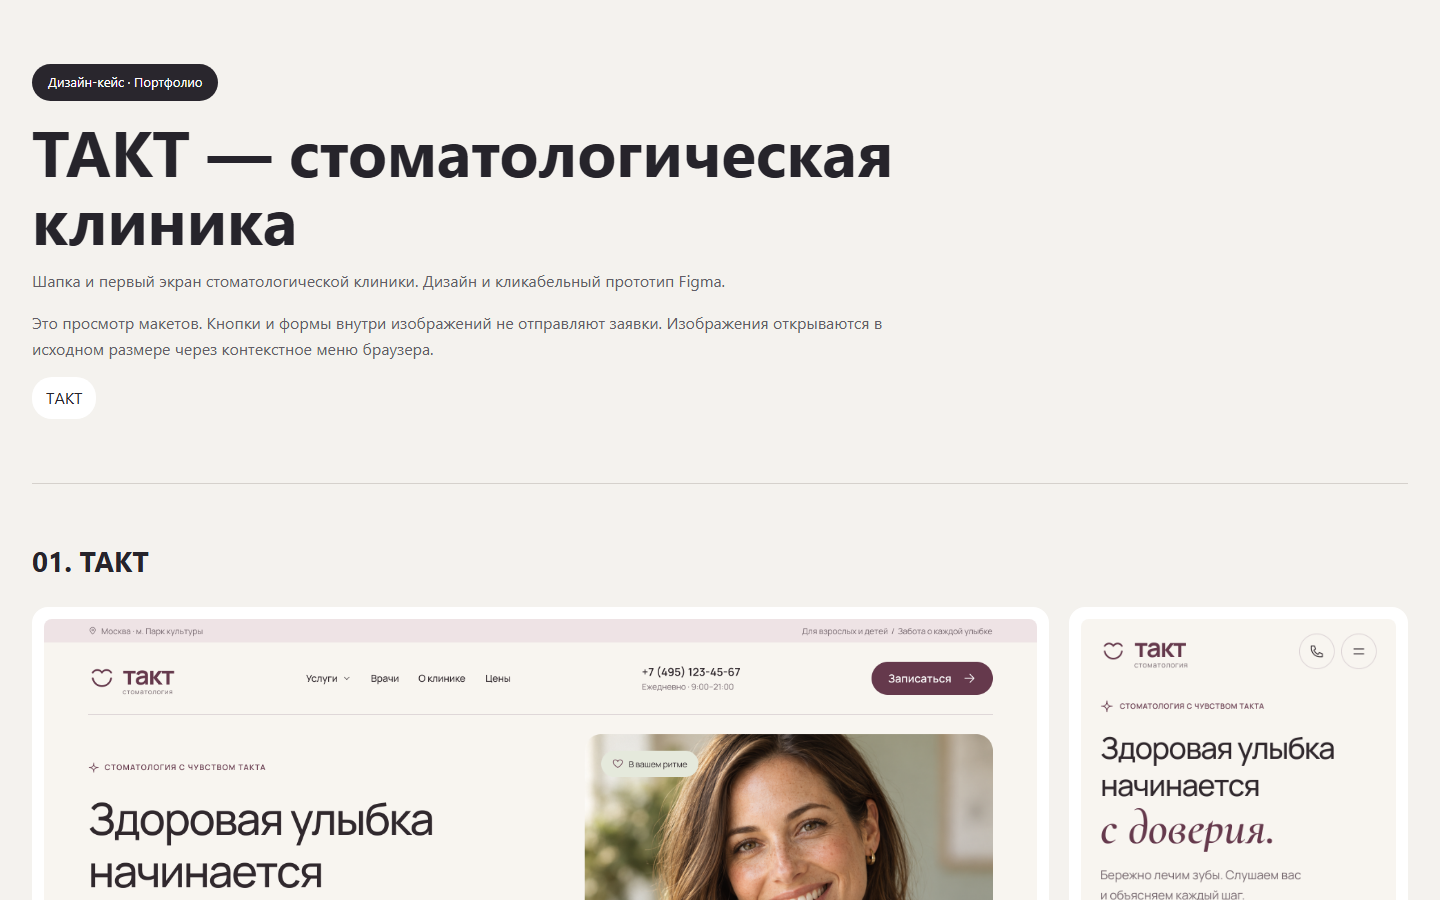
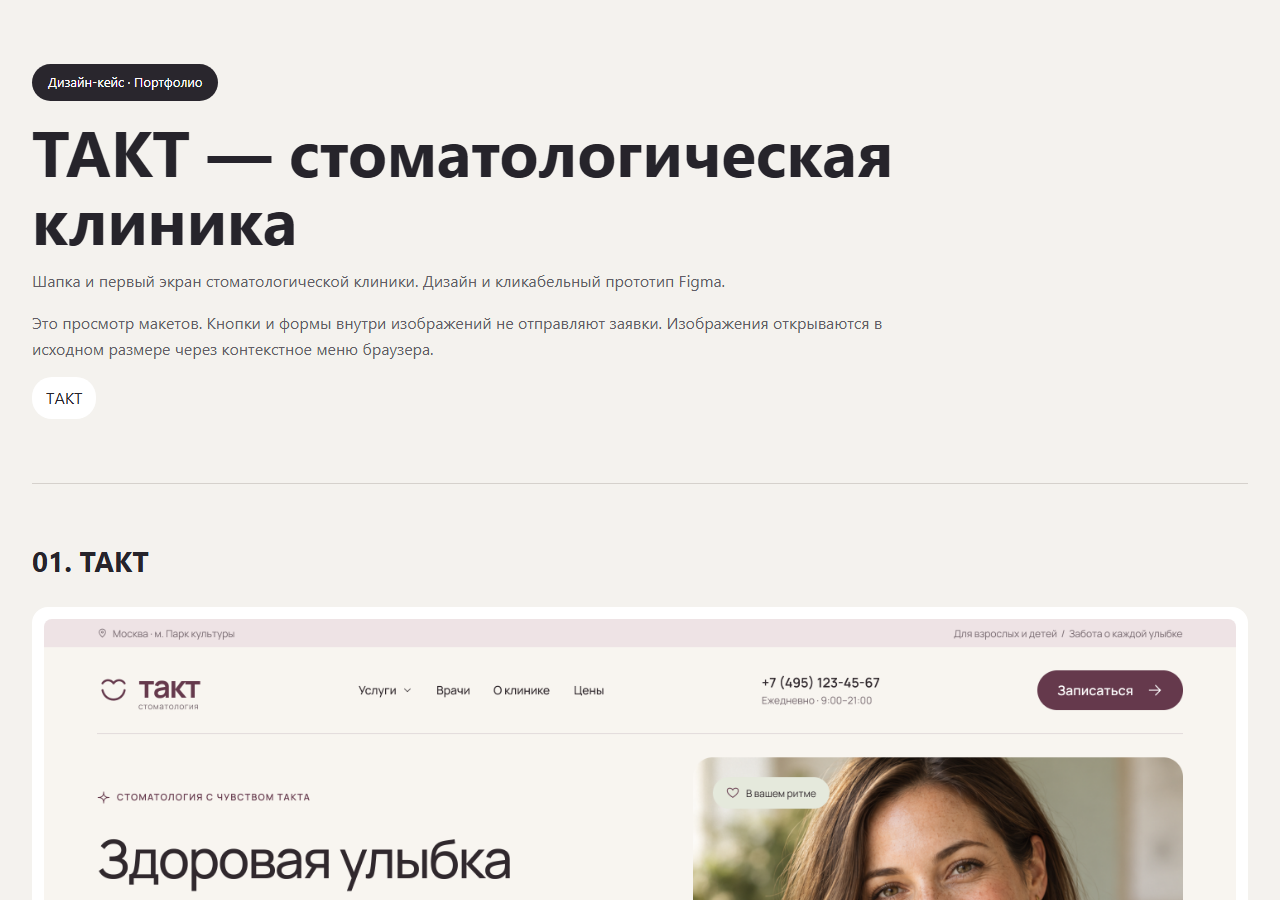
Improve desktop presentation and project browsing

diff --git a/index.html b/index.html
@@ -4,4 +4,7 @@
 .screen-viewer{width:min(1400px,94vw);max-height:94dvh;padding:20px;border:1px solid #c8c9c1;border-radius:16px;background:#f4f2ee;color:#26242b}
 .screen-viewer::backdrop{background:#101512c9}.screen-viewer>button{float:right;min-height:44px;padding:8px 14px;border:1px solid #b6bcb1;border-radius:8px;background:#fff;cursor:pointer;font:inherit}.screen-viewer>h2{margin:0 120px 12px 0;font-size:20px}.screen-viewer>a{display:inline-block;min-height:44px;color:#345c44}.screen-viewer>img{display:block;width:100%;height:auto;border-radius:8px}
 @media(max-width:600px){header{padding-top:32px}header,main,footer{padding-inline:16px}section{padding:18px}.screen-viewer{padding:14px}.screen-viewer>h2{font-size:17px;margin-right:110px}}
+
+/* Desktop screen presentation: give the computer layout its own full-width row. */
+@media(min-width:801px){.screens,.pair{grid-template-columns:minmax(0,1fr)}.screens figure:nth-child(2),.pair figure:nth-child(2){width:min(100%,390px);justify-self:center}figcaption{font-size:16px}.screen-viewer{width:96vw;max-width:1800px}}
 </style><header><span class="tag">Дизайн-кейс · Портфолио</span><h1>ТАКТ — стоматологическая клиника</h1><p>Шапка и первый экран стоматологической клиники. Дизайн и кликабельный прототип Figma.</p><p>Это просмотр макетов. Кнопки и формы внутри изображений не отправляют заявки. Изображения открываются в исходном размере через контекстное меню браузера.</p><nav><a href="#variant-1">ТАКТ</a></nav></header><main><section id="variant-1"><h2>01. ТАКТ</h2><div class="screens"><figure><img src="assets/01-desktop.png" alt="ТАКТ — Компьютерная версия" loading="lazy" width="2880" height="1920"><figcaption>Компьютерная версия</figcaption></figure><figure><img src="assets/01-mobile.png" alt="ТАКТ — Мобильная версия" loading="lazy" width="780" height="1960"><figcaption>Мобильная версия</figcaption></figure></div><details><summary>Посмотреть дополнительные экраны</summary><div class="screens"><figure><img src="assets/01-menu.png" alt="Мобильное меню" loading="lazy" width="780" height="1688"><figcaption>Мобильное меню</figcaption></figure><figure><img src="assets/01-booking-mobile.png" alt="Форма заявки" loading="lazy" width="780" height="1400"><figcaption>Форма заявки</figcaption></figure></div></details></section></main><footer>Роман Кабанов · Дизайн и адаптивные композиции · HTML-галерея макетов</footer><script src="viewer.js"></script></html>
